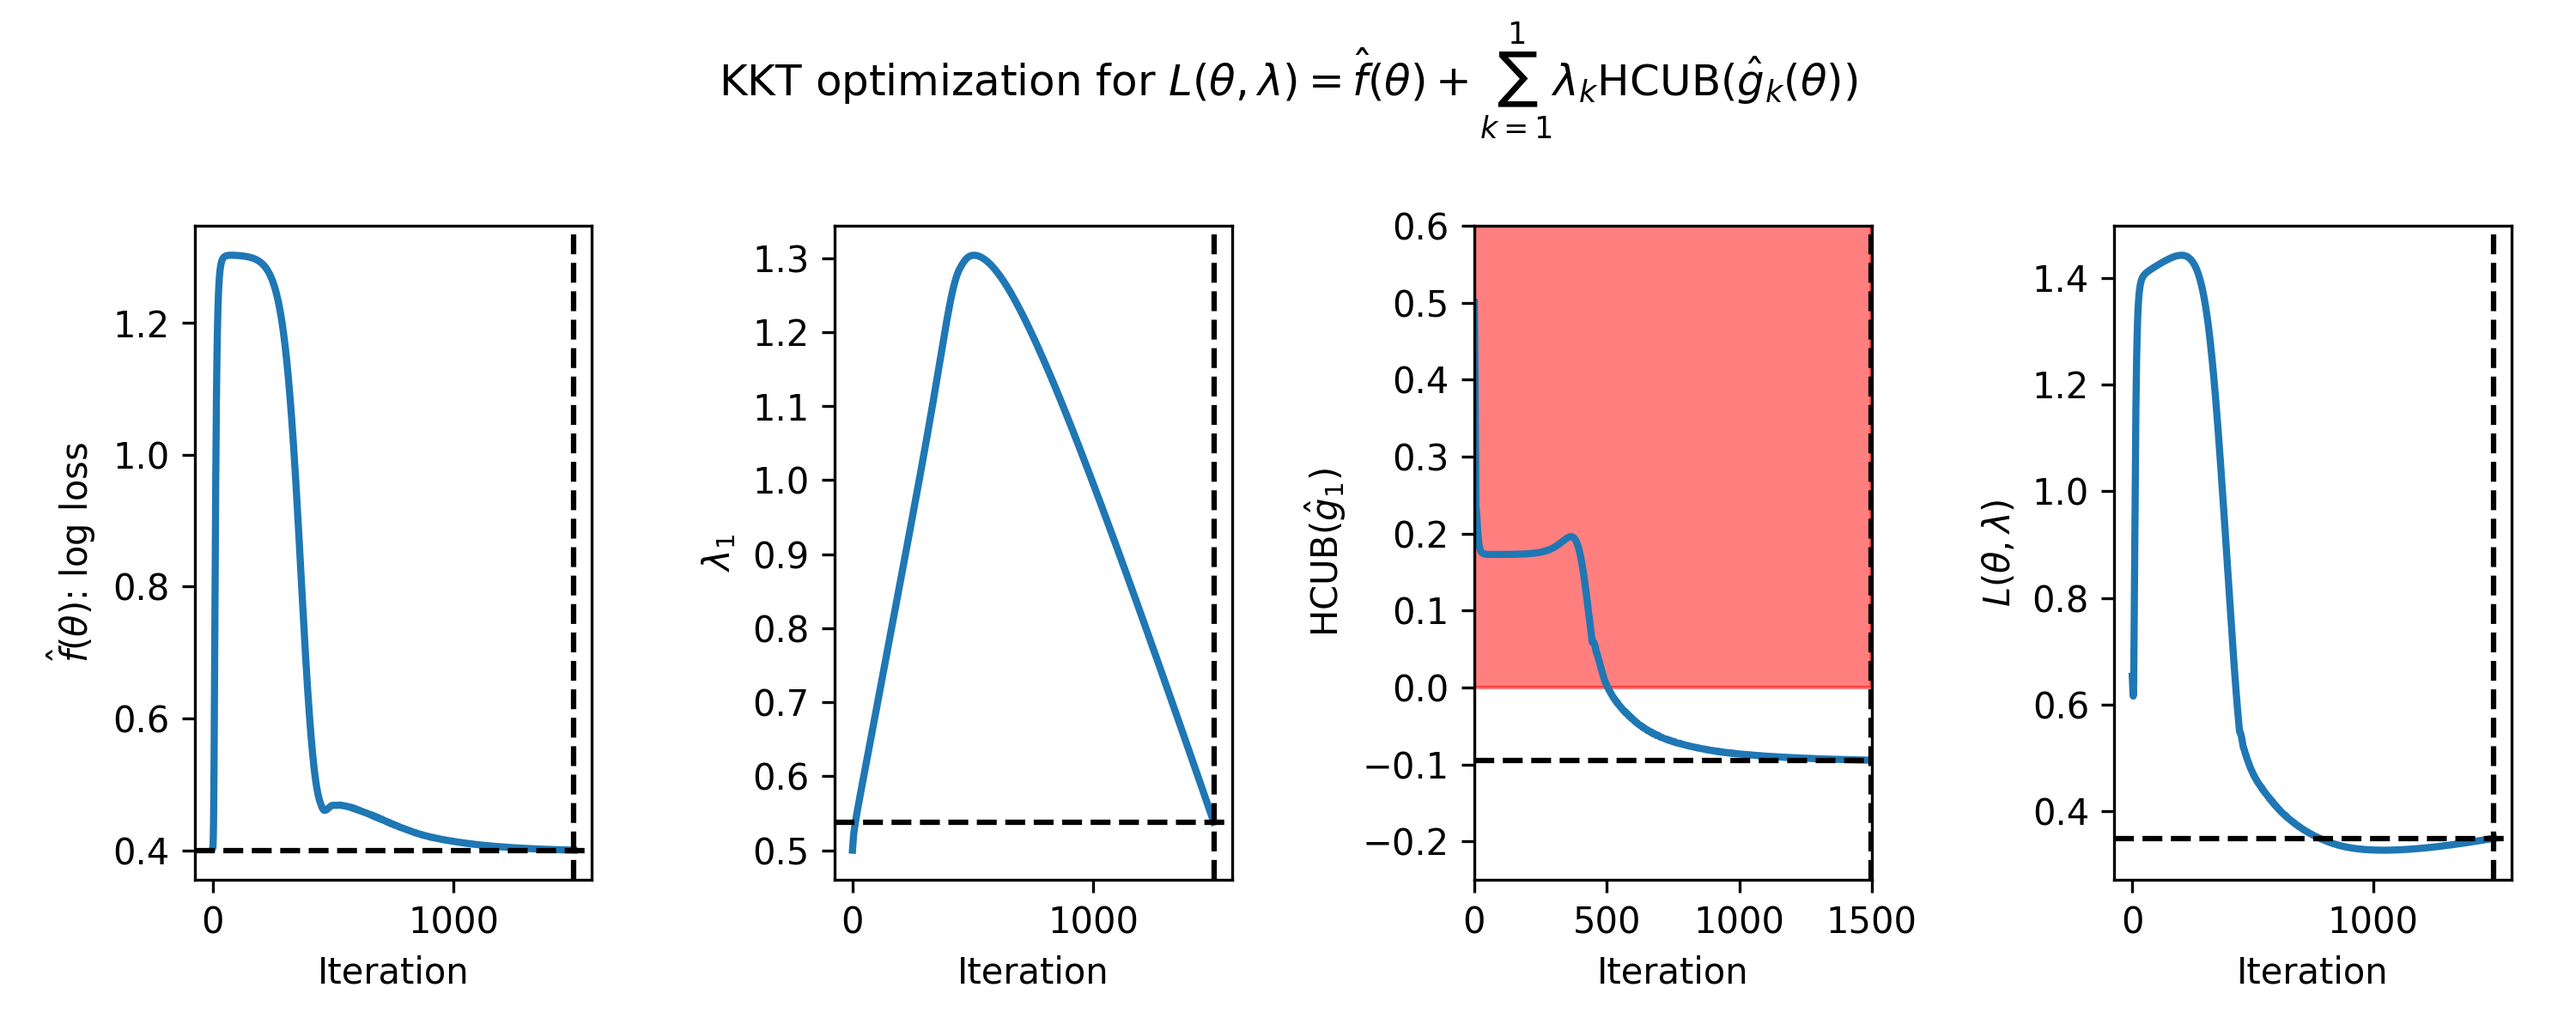
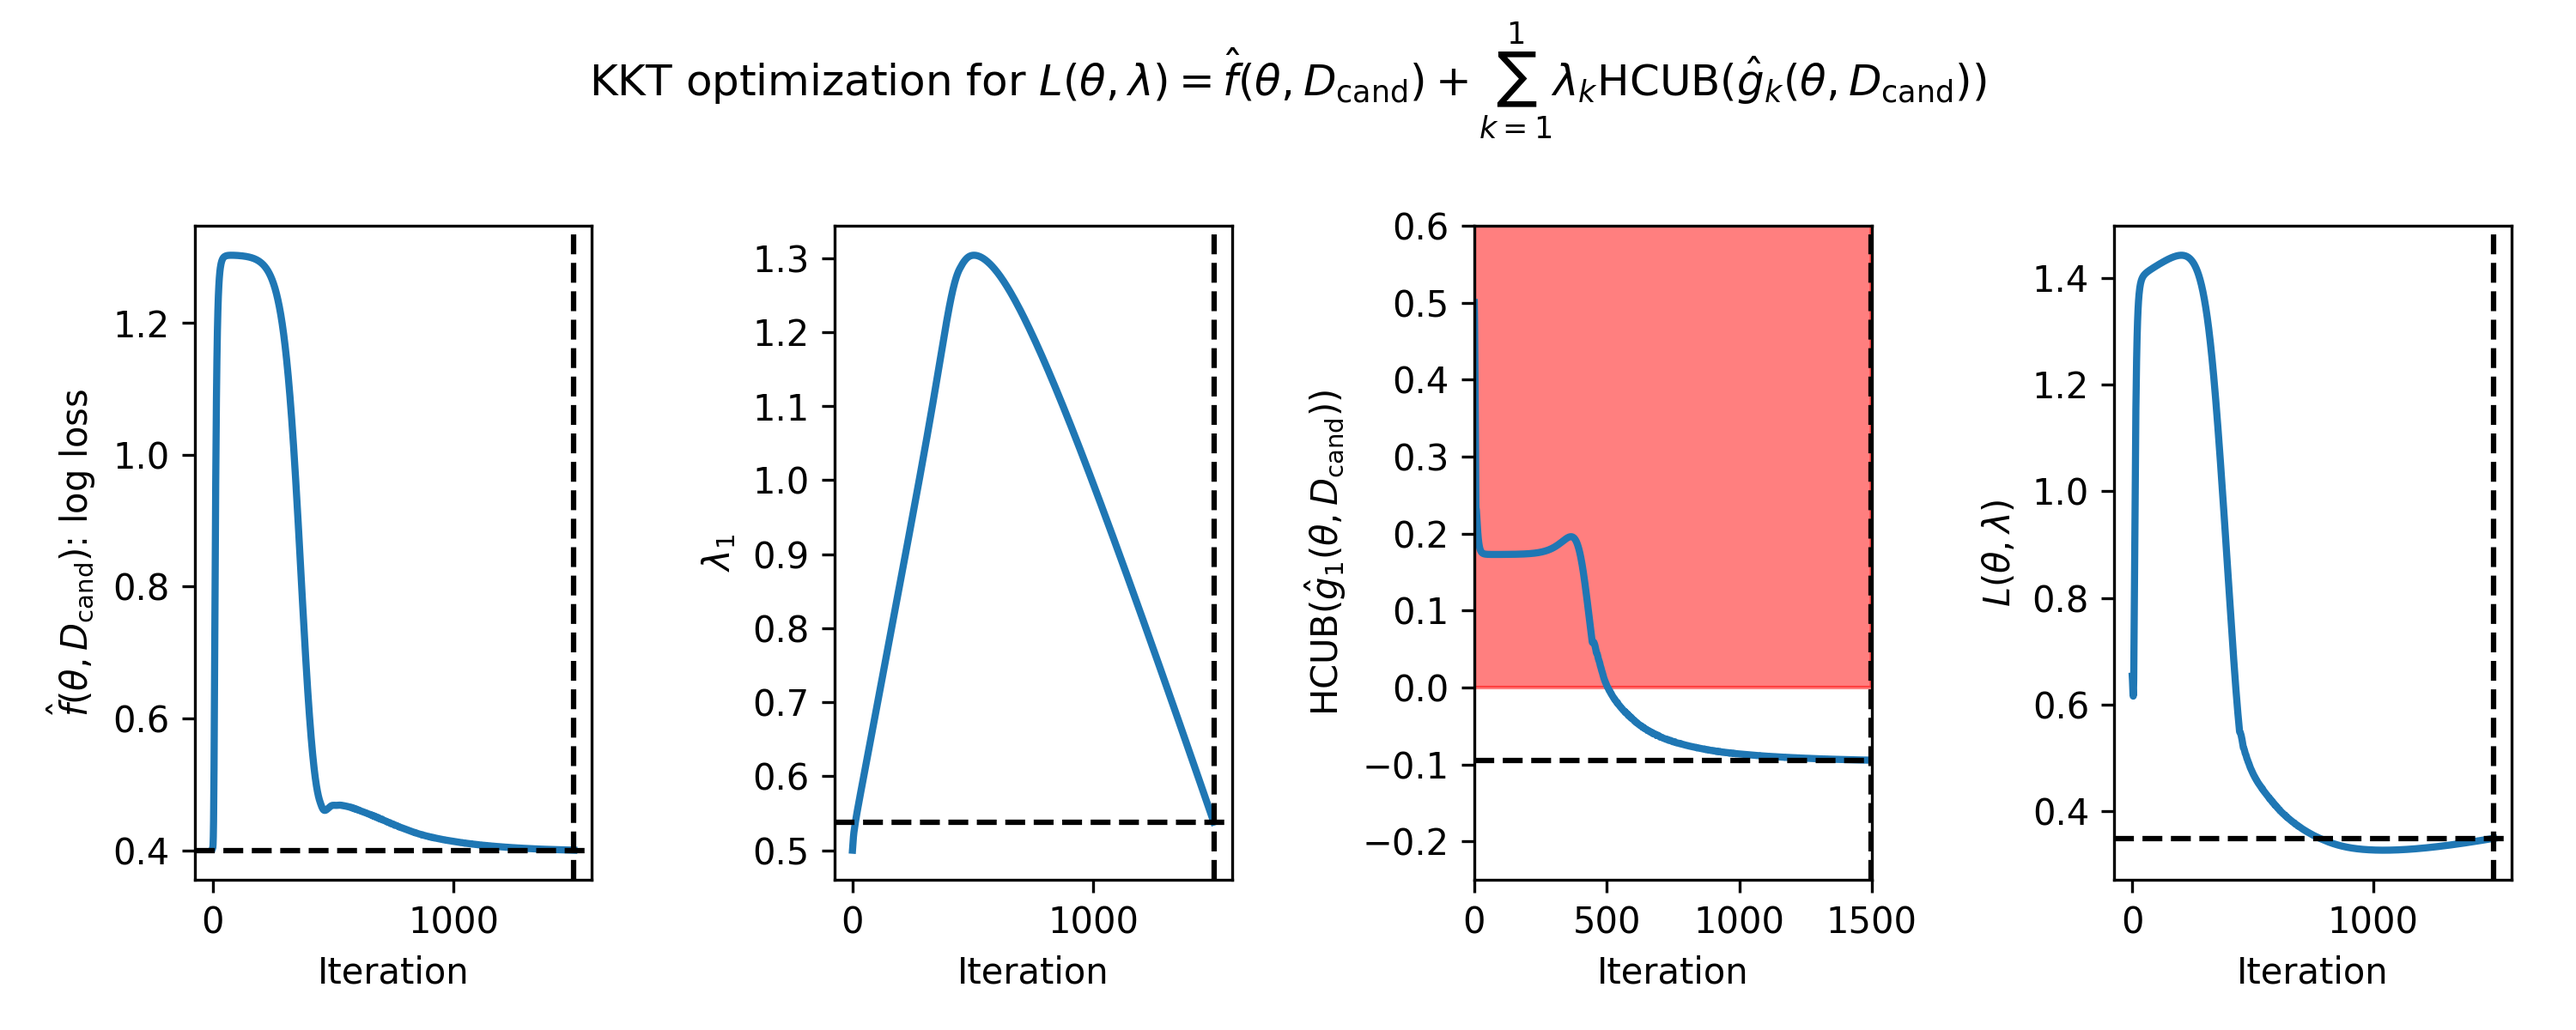
address Phil's comments

diff --git a/index.html b/index.html
@@ -2,9 +2,9 @@
 layout: home
 permalink: /
 ---
-<div class="container mt-4" align="center">
+<!-- <div class="container mt-4" align="center">
     <a href="{{ "/overview/" | relative_url }}" class="btn btn-primary">Next: Overview &raquo;</a>
-</div>
+</div> -->
 <!-- Title Container -->
 <div class="container p-3 mt-4 border" style="background-color: #f3f4fc;">
     <h1 class="mb-3">Seldonian Machine Learning Toolkit</h1>

diff --git a/_tutorials/simple_engine_tutorial.md b/_tutorials/simple_engine_tutorial.md
@@ -27,8 +27,8 @@ next_page_name: (D) Fair loans tutorial
         Now let's suppose we want to add the following two constraints into the problem:
     </p>
     <ol>
-        <li>Ensure that the MSE is less than $2.0$ with a probability of at least $0.9$. </li>  
-        <li>Ensure that the MSE is <i>greater than</i> $1.25$ with a probability of at least $0.9$.</li>
+        <li>Ensure that the MSE is less than or equal to $2.0$ with a probability of at least $0.9$. </li>  
+        <li>Ensure that the MSE is <i>greater than or equal to</i> $1.25$ with a probability of at least $0.9$.</li>
     </ol> 
     <p>
         Notice that this second constraint conflicts with the primary objective of minimizing the MSE. Though this particular constraint is contrived, it models the common setting of interest wherein safety and fairness constraints conflict with the primary objective.
@@ -48,7 +48,7 @@ next_page_name: (D) Fair loans tutorial
         </li>
     </ul>
     <p>
-        First, notice that the values of ${\delta}_1$ and ${\delta}_2$ are both $0.1$. This is because constraints are enforced with a probability of at least $1-{\delta}$, and we stated that the constraints should be enforced with a probability of at least $0.9$. The Seldonian algorithm will attempt to satisfy both of these constraints simultaneously, while also minimizing the primary objective. If it cannot find a solution that satisfies the constraints, it will return "NSF", i.e. "No Solution Found". 
+        First, notice that the values of ${\delta}_1$ and ${\delta}_2$ are both $0.1$. This is because constraints are enforced with a probability of at least $1-{\delta}$, and we stated that the constraints should be enforced with a probability of at least $0.9$. The Seldonian algorithm will attempt to satisfy both of these constraints simultaneously, while also minimizing the primary objective. If it cannot find a solution that satisfies the constraints, it will return "NSF", i.e., "No Solution Found". 
     </p>
     <p>
         Next, notice that here the MSE is <i>not</i> just the average squared error on the available training data. These constraints are much stronger: they are constraints on the MSE when the learned model is applied to <i>new data</i>. This is important because we don't just want machine learning models that appear to be safe or fair on the training data. We want machine learning models that are safe or fair when used to made decisions or predictions in the future.
@@ -63,8 +63,13 @@ next_page_name: (D) Fair loans tutorial
         <li> Create a spec object containing all of this information and some hyperparameters - we can ignore many of these in this example. For a full list of parameters and their default values see the API docs for <a href="https://seldonian-toolkit.github.io/Engine/build/html/_autosummary/seldonian.spec.SupervisedSpec.html#seldonian.spec.SupervisedSpec">SupervisedSpec</a>.</li>
         <li> Run the Seldonian algorithm using the spec object. </li>
     </ol>
+    <p>
     Let's write out the code to do this. Each step above is enumerated in comments in the code below. We will make heavy use of helper functions with many hidden defaults. In the tutorials that follow, we will explore how to customize running the Engine.
-        
+    </p>
+
+<div>
+
+<input type="button" style="float: right" class="btn btn-sm btn-secondary" onclick="copy2Clipboard(this)" value="Copy code snippet"> 
 
 {% highlight python %}
 # example.py
@@ -115,6 +120,7 @@ if __name__ == "__main__":
     passed_safety,solution = SA.run()
     print(passed_safety,solution)
 {% endhighlight %}
+</div>
 <p>
 If you copy the above code into a file called "example.py", run the example from the command line (once inside a virtual environment where you have pip-installed the engine) by doing:
 </p>
@@ -138,9 +144,9 @@ True [0.16911355 0.1738146 ]
 {% endhighlight %}
     </p>
     <p>
-    Notice in the last few lines of the script that <code class="highlight">SA.run()</code> returns two values. <code class="highlight">passed_safety</code> is a Boolean indicating whether the candidate solution found during candidate selection passed the safety test. If <code class="highlight">passed_safety==False </code>, then <code class='highlight'> solution="NSF"</code>, i.e., "No Solution Found". If <code class="highlight">passed_safety==True</code> then the solution is the array of model weights that cause the safety test to be passed. In this example, you should get <code class="highlight">passed_safety=True</code> and a candidate solution of something like: <code class="highlight">[0.16911355 0.1738146]</code>, although the exact numbers might differ slightly depending on your machine's random number generator.
+    Notice in the last few lines of the script that <a href="https://seldonian-toolkit.github.io/Engine/build/html/_autosummary/seldonian.seldonian_algorithm.SeldonianAlgorithm.html#seldonian.seldonian_algorithm.SeldonianAlgorithm.run">SA.run()</a> returns two values. <code class="highlight">passed_safety</code> is a Boolean indicating whether the candidate solution found during candidate selection passed the safety test. If <code class="highlight">passed_safety==False </code>, then <code class='highlight'> solution="NSF"</code>, i.e., "No Solution Found". If <code class="highlight">passed_safety==True</code> then the solution is the array of model weights that cause the safety test to be passed. In this example, you should get <code class="highlight">passed_safety=True</code> and a candidate solution of something like: <code class="highlight">[0.16911355 0.1738146]</code>, although the exact numbers might differ slightly depending on your machine's random number generator.
 </p>
-<p> Also notice that <code class="highlight">SA.run()</code> does not return what the value of the primary objective actually was on the safety test. Given that it passed the safety test, we know that it should be between $1.25$ and $2.0$ (and the actual MSE on future data will be in this range with high probability). The <code class="highlight">SA</code> object provides the introspection we need to extract this information:
+<p> Also notice that <code class="highlight">SA.run()</code> does not return what the value of the primary objective actually was on the safety test. Given that it passed the safety test, we know that it should be between $1.25$ and $2.0$ (and the actual MSE on future data will be in this range with high probability). The <code class="highlight">SA</code> object provides the introspection we need to extract this information through the <a href="https://seldonian-toolkit.github.io/Engine/build/html/_autosummary/seldonian.seldonian_algorithm.SeldonianAlgorithm.html#seldonian.seldonian_algorithm.SeldonianAlgorithm.evaluate_primary_objective">SA.evaluate_primary_objective()</a> method:
 
 {% highlight python %}
 # Check the value of the primary objective on the safety dataset
@@ -153,7 +159,7 @@ This should print a value around: $1.61$, which satsifies the behavioral constra
 </p>
 
 <p>
-We might also wonder what the values of the primary objective and the behavioral constraint function were during the candidate selection process. All of this information and more is stored in a dictionary that is retrievable via the <code class="highlight">SA.get_cs_result()</code> method:
+We might also wonder what the values of the primary objective and the behavioral constraint function were during the candidate selection process. All of this information and more is stored in a dictionary that is retrievable via the <a href="">SA.get_cs_result()</a> method:
 {% highlight python %}
 cs_dict = SA.get_cs_result() # returns a dictionary with a lot of quantities evaluated at each step of gradient descent
 print(cs_dict.keys())
@@ -170,7 +176,7 @@ and to get the values of the constraint functions, $g_1$ and $g_2$, we would do:
 {% highlight python %}
 print(cs_dict['g_vals'])
 {% endhighlight %}
-Even if candidate selection returned "NSF", the <code class="highlight">cs_dict</code> will still store these values.
+Even if candidate selection returns "NSF", the <code class="highlight">cs_dict</code> stores these values.
 </p>
     <h3>Summary</h3>
     <p>In this tutorial, we demonstrated how to:</p>

diff --git a/_tutorials/fair_loans_tutorial.md b/_tutorials/fair_loans_tutorial.md
@@ -32,7 +32,7 @@ next_page_name: (E) Science paper GPA tutorial
 <h3 id="dataset_prep"> Dataset preparation </h3>
 
 <p>
-    We created a <a href="https://github.com/seldonian-toolkit/Engine/blob/main/examples/german_credit/loan_dataset_preprocessing.ipynb">Jupyter notebook</a> implementing the steps described in this section. If you would like to skip this section, you can find the correctly re-formatted dataset and metadata file that are the end product of the notebook here: <a href="https://github.com/seldonian-toolkit/Engine/tree/main/static/datasets/supervised/german_credit">https://github.com/seldonian-toolkit/Engine/tree/main/static/datasets/supervised/german_credit</a>. 
+    We created a <a href="https://github.com/seldonian-toolkit/Engine/blob/main/examples/loan_tutorial/loan_dataset_preprocessing.ipynb">Jupyter notebook</a> implementing the steps described in this section. If you would like to skip this section, you can find the correctly re-formatted dataset and metadata file that are the end product of the notebook here: <a href="https://github.com/seldonian-toolkit/Engine/tree/main/static/datasets/supervised/german_credit">https://github.com/seldonian-toolkit/Engine/tree/main/static/datasets/supervised/german_credit</a>. 
 </p>
 
 <p>
@@ -240,7 +240,7 @@ For more details about the <code class='highlight'>SupervisedSpec</code> object 
 
 <h3> Running the Seldonian Engine </h3>
 <p>
-    We are now ready to run the Seldonian algorithm using the spec file generated in the previous step, regardless of the method used. The code below modifies some defaults of the spec object that we created and then runs the Seldonian algorithm using the modified spec object. Create a file called "loan_fairness.py" and copy the code above into the file. You may need to change the line <code class='highlight'>specfile = './spec.pkl'</code> to point it to where you created that file in the previous step.
+    We are now ready to run the Seldonian algorithm using the spec file generated in the previous step, regardless of the method used. The code below modifies some defaults of the spec object that we created and then runs the Seldonian algorithm using the modified spec object. Create a file called "loan_fairness.py" and copy the code below into the file. You may need to change the line <code class='highlight'>specfile = './spec.pkl'</code> to point it to where you created that file in the previous step.
 
 <div>
 
@@ -341,11 +341,11 @@ Running this script will generate a figure like this:
 <div align="center">
     <figure>
         <img src="{{ "/assets/img/loan_cs.png" | relative_url}}" class="img-fluid mt-4" style="width: 75%"  alt="Candidate selection"> 
-        <figcaption align="left"> <b>Figure 1</b> - How the parameters of the Lagrangian optimization problem changed during gradient descent on our loan fairness problem. The panels show the values of the (left) primary objective, $f({\theta})$, i.e.,  the log loss, (middle left) single lagrange multiplier, ${\lambda_1}$, (middle right) predicted high confidence upper bound (HCUB) on the disparate impact constraint function, ${g_1}(\theta)$, and finally the Lagrangian $L(\theta,\lambda)$. The dotted lines indicate where the optimum was found. The optimum is defined as the feasible solution with the lowest value of the primary objective. A feasible solution is one where $\mathrm{HCUB}(g_i(\theta)) \leq 0, i \in \{1 ... n\}$. In this example, we only have one constraint and the infeasible region is shown in red in the middle right plot. </figcaption>
+        <figcaption align="left"> <b>Figure 1</b> - How the parameters of the Lagrangian optimization problem changed during gradient descent on our loan fairness problem. The panels show the values of the (left) primary objective $\hat{f}(\theta,D_\mathrm{cand})$ (in this case the log loss), (middle left) single Lagrange multiplier, ${\lambda_1}$, (middle right) predicted high confidence upper bound (HCUB) on the disparate impact constraint function, $\hat{g}_1(\theta,D_\mathrm{cand})$, and finally the Lagrangian $L(\theta,\lambda)$. The dotted lines indicate where the optimum was found. The optimum is defined as the feasible solution with the lowest value of the primary objective. A feasible solution is one where $\mathrm{HCUB}(\hat{g}_i(\theta,D_\mathrm{cand})) \leq 0, i \in \{1 ... n\}$. In this example, we only have one constraint and the infeasible region is shown in red in the middle right plot. </figcaption>
     </figure>
 </div>
 <p>
-Visualizing candidate selection can help you tune your optimization hyperparameters in your spec object. For example, if $\theta$ is never escaping the infeasible region and your Seldonian algorithm is returning NSF (i.e., "No Solution Found"), then you may be able to obtain a solution by running gradient descent for more iterations or with different learning rates or beta values.  If you are still seeing NSF after hyperparameter exporation, you may not have enough data or your constraints may be too strict. Running a Seldonian Experiment can help determine why you are not able to obtain a solution.
+Visualizing candidate selection can help you tune your optimization hyperparameters in your spec object. For example, if $\theta$ is never escaping the infeasible region and your Seldonian algorithm is returning NSF (i.e., "No Solution Found"), then you may be able to obtain a solution by running gradient descent (with Adam optimizer) for more iterations or with different learning rates or velocity values (the beta terms in Adam). If you are still seeing NSF after hyperparameter exporation, you may not have enough data or your constraints may be too strict. Running a Seldonian Experiment can help determine why you are not able to obtain a solution.
 </p>
 
 <h3> Running a Seldonian Experiment </h3>

diff --git a/_tutorials/custom_base_node.md b/_tutorials/custom_base_node.md
@@ -4,7 +4,7 @@ permalink: /tutorials/custom_base_variable_tutorial/
 prev_url: /tutorials/science_GPA_tutorial/
 prev_page_name: (E) Science paper GPA tutorial
 next_url: /tutorials/gridworld_RL_tutorial/
-next_page_name: (G) Reinforcement learning first tutorial - gridworld
+next_page_name: (G) Reinforcement learning first tutorial
 ---
 
 <!-- Main Container -->
